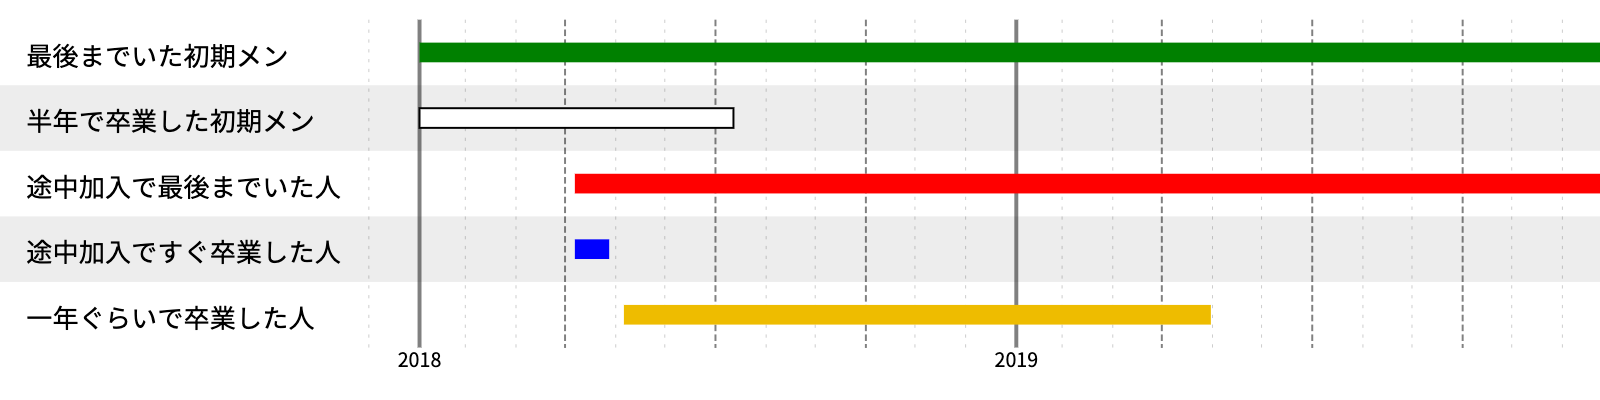
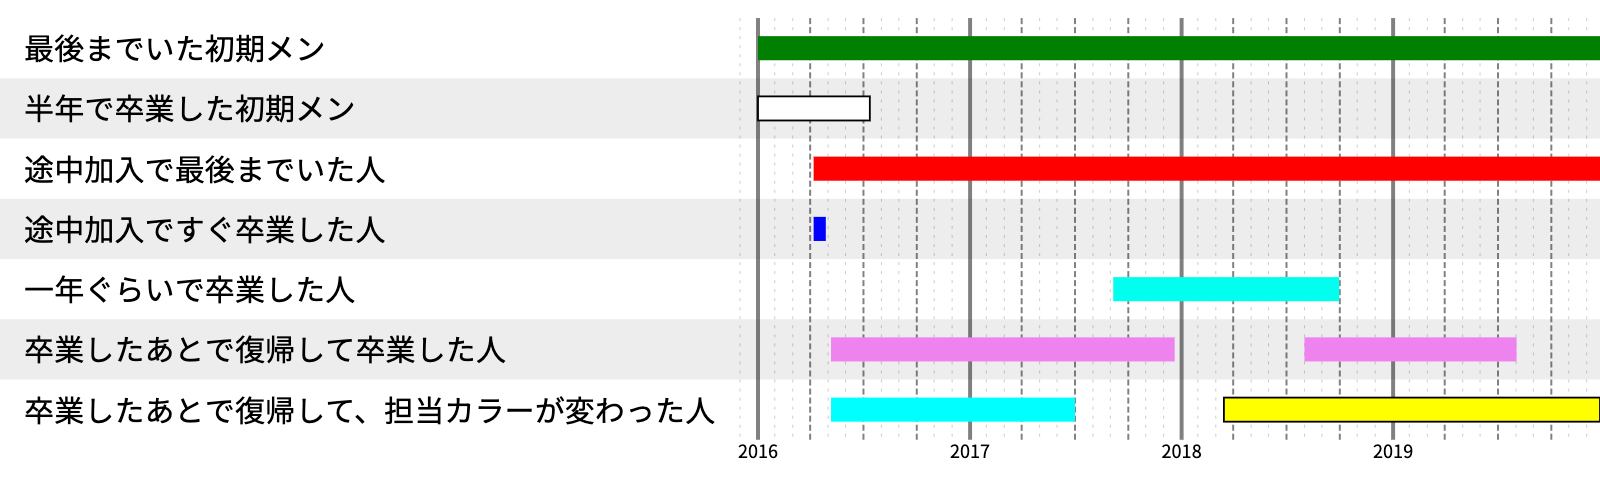
卒業後の復帰に対応

diff --git a/README.md b/README.md
@@ -14,39 +14,66 @@ json の内容はこんな感じです。
 ```json
 {
   "width": 1600,
-  "height": 400,
-  "name_ratio": 0.4,
-  "unit": "px",
+  "height": 500,
   "end": "2019.12.24",
   "members": [
     {
       "name": "最後までいた初期メン",
-      "in": "2018年1月1日",
+      "in": "2016年1月1日",
       "color": "green"
     },
     {
       "name": "半年で卒業した初期メン",
-      "in": "2018年1月1日",
-      "out": "2018年7月12日",
+      "in": "2016年1月1日",
+      "out": "2016年7月12日",
       "color": "white",
       "border_color": "black"
     },
     {
       "name": "途中加入で最後までいた人",
-      "in": "2018年4月7日",
+      "in": "2016年4月7日",
       "color": "red"
     },
     {
       "name": "途中加入ですぐ卒業した人",
-      "in": "2018年4月7日",
-      "out": "2018年4月28日",
+      "in": "2016年4月7日",
+      "out": "2016年4月28日",
       "color": "#00f"
     },
     {
       "name": "一年ぐらいで卒業した人",
-      "in": "２０１８年５月６日",
-      "out": "２０１９年４月３１日",
-      "color": "#eebc00"
+      "in": "２０１７年９月６日",
+      "out": "２０１８年９月３１日",
+      "color": "#00ffee"
+    },
+    {
+      "name": "卒業したあとで復帰して卒業した人",
+      "color": "violet",
+      "enrollments": [
+        {
+          "in": "2016.5.6",
+          "out": "2017.12.20",
+        },
+        {
+          "in": "2018.8.1",
+          "out": "2019.8.2",
+        }
+      ]
+    },
+    {
+      "name": "卒業したあとで復帰して、担当カラーが変わった人",
+      "enrollments": [
+        {
+          "in": "2016.5.6",
+          "out": "2017.7.1",
+          "color": "aqua"
+        },
+        {
+          "in": "2018.3.15",
+          "color": "yellow",
+          "border_color": "black"
+        }
+      ]
     }
   ]
 }
@@ -59,14 +86,34 @@ json 内の要素は下表のとおりです。
 |width|出力画像の横幅。ピクセル単位。|1600|
 |height|出力画像の縦幅。ピクセル単位。|適当に計算する|
 |end|グラフの右端の日付|画像を作った日|
-|members\[*\].name|メンバ名|省略不可|
-|members\[*\].in|加入年月日|省略不可|
-|members\[*\].out|卒業等の年月日|グラフの右端まで伸びる|
-|members\[*\].color|グラフの色|`rgb(0,0,255)`|
-|members\[*\].border|グラフの枠線の色|枠線なし|
+|members|メンバ情報の配列|省略不可|
+
+メンバ情報は加入時期が連続であるパターンと不連続であるパターンがあります。
+
+連続の場合は下表のとおりです。
+|要素|説明|省略時|
+|:--|:--|:--|
+|color|グラフの色|`rgb(0,0,255)`|
+|border_color|グラフの枠線の色|枠線なし|
+|in|加入年月日|省略不可|
+|out|卒業年月日|グラフの右端までバーが伸びる|
+
+加入時期が不連続の場合は下表のとおりです。
+
+|要素|説明|省略時|
+|:--|:--|:--|
+|color|グラフの色を省略した場合の色|`rgb(0,0,255)`|
+|border_color|グラフの枠線の色を省略した場合の色|枠線なし|
+|border|グラフの枠線の色|枠線なし|
+|enrollments\[\*\].in|加入年月日|省略不可|
+|enrollments\[\*\].out|(一旦)卒業した年月日|グラフの右端までバーが伸びる|
+|enrollments\[\*\].color|その加入時期のグラフの色|member\[\*\].color|
+|enrollments\[\*\].border_color|グラフの枠線の色を省略した場合の色|member\[\*\].border_color|
+
+
 
 グラフの色は `red` のような web color 名、 `#ff00ff` や `#f0f` のような形式、 `rgb(0,0,255)` のような形式のいずれも OK です。
-`members\[*\].border` は、メンバーカラーが白などの場合に指定してください。
+`border_color` は、メンバーカラーが白などの場合に指定してください。
 
 年月日は、「2020年08月12日」や「2020.8.1」などの形式に対応します。年月日の順である必要があります。
 いわゆる全角数字には対応します。
